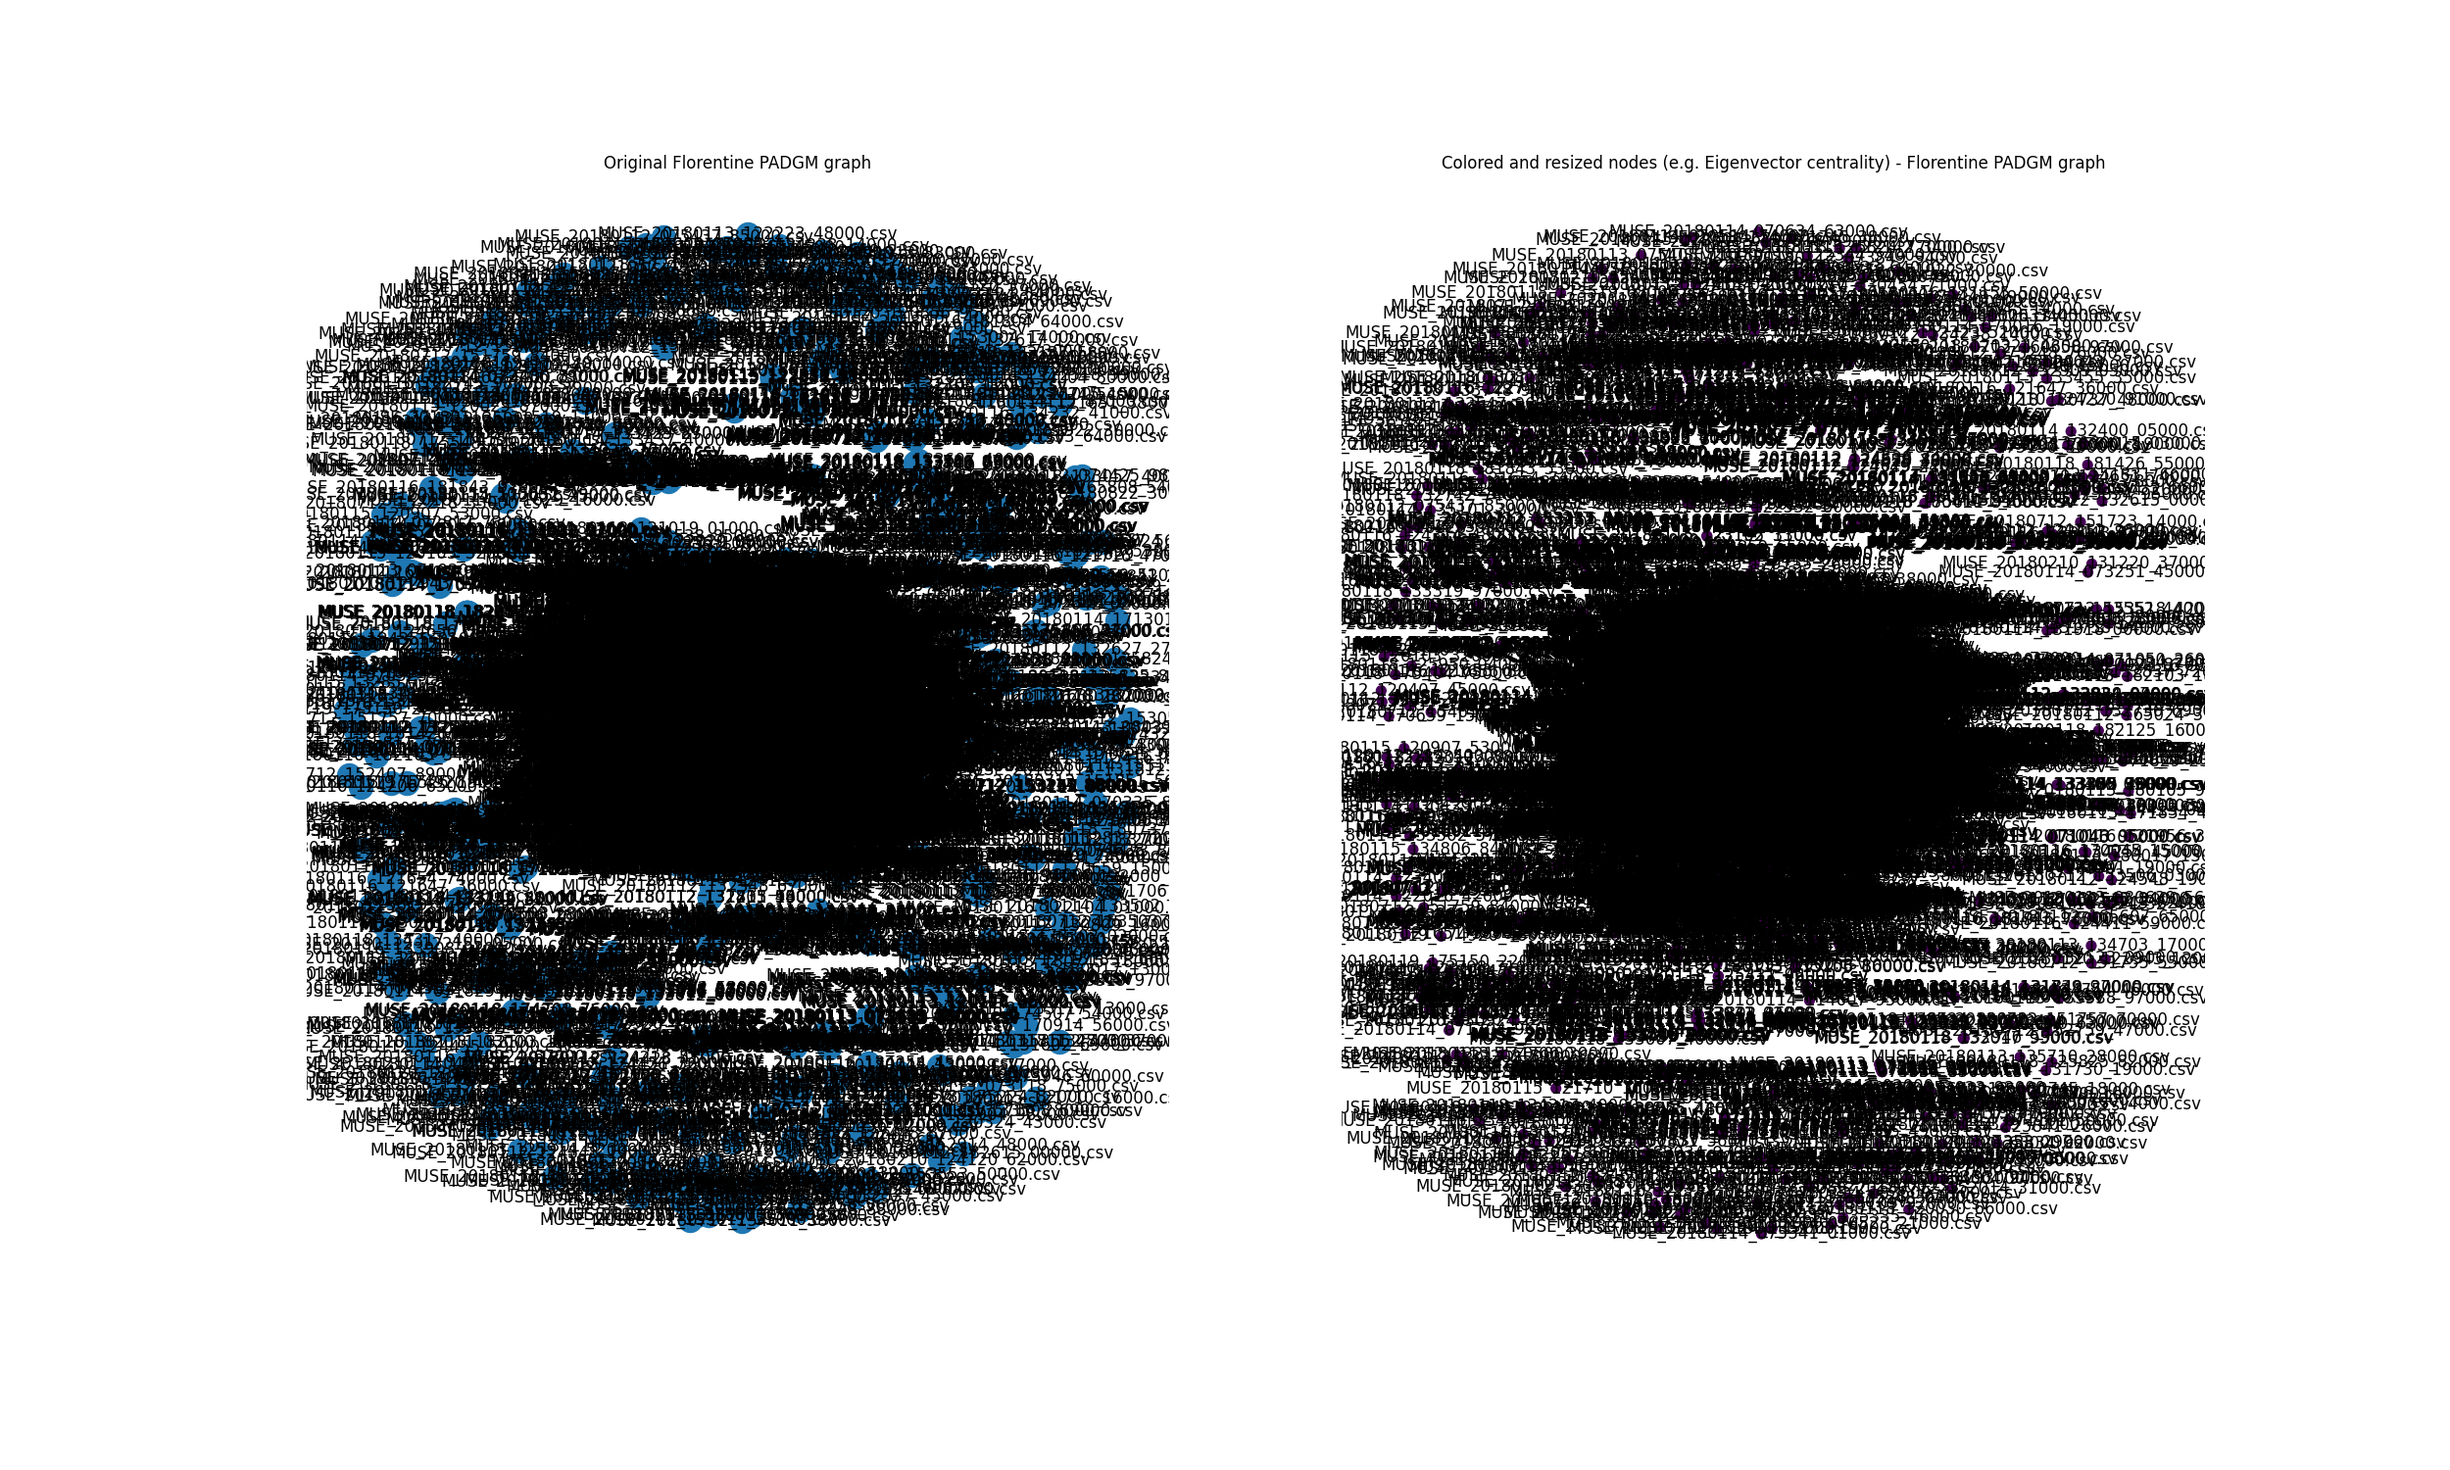
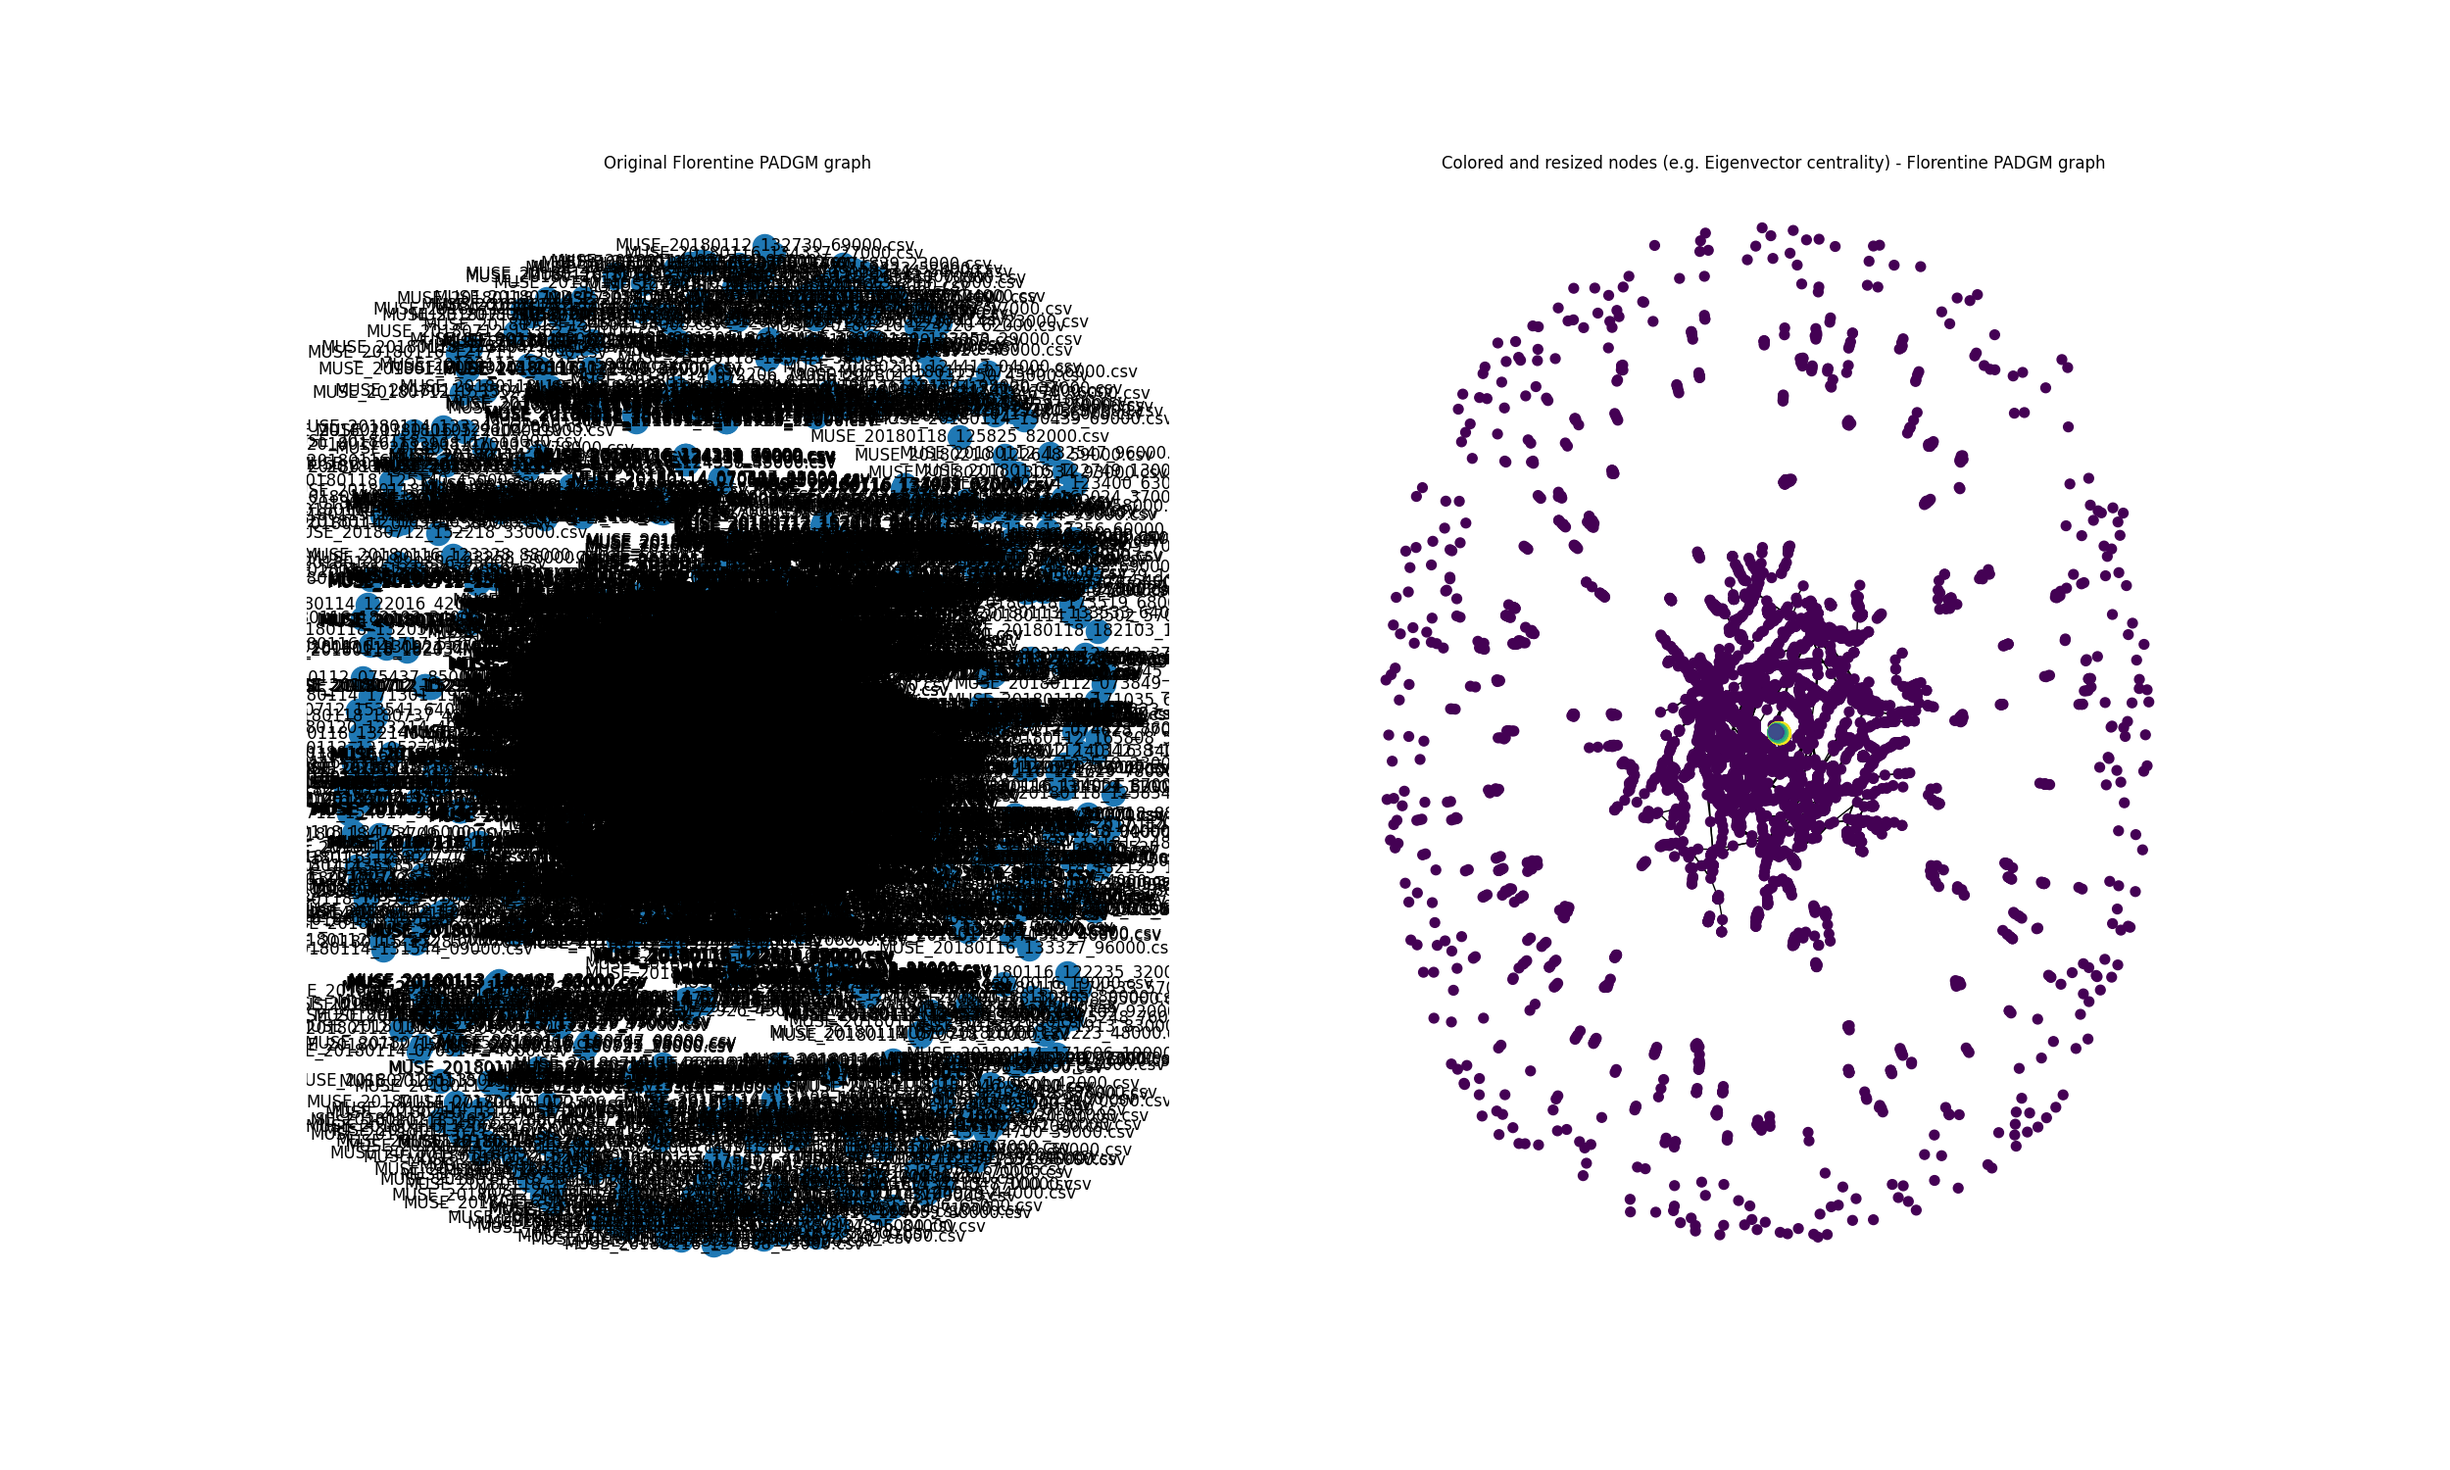
analisis a probar

diff --git a/analisysgraph.py b/analisysgraph.py
@@ -27,7 +27,7 @@ fig = plt.figure(figsize=(25,15))
 fig.add_subplot(1,2,1) 
 plt.title("Original Florentine PADGM graph")
 # Draw the original graph on the indicated sublot/canvas
-nx.draw(G, with_labels=True)
+nx.draw(G, with_labels=False)
 
 fig.add_subplot(1,2,2)  #(row=1,col=2)
 plt.title("Colored and resized nodes (e.g. Eigenvector centrality) - Florentine PADGM graph")
